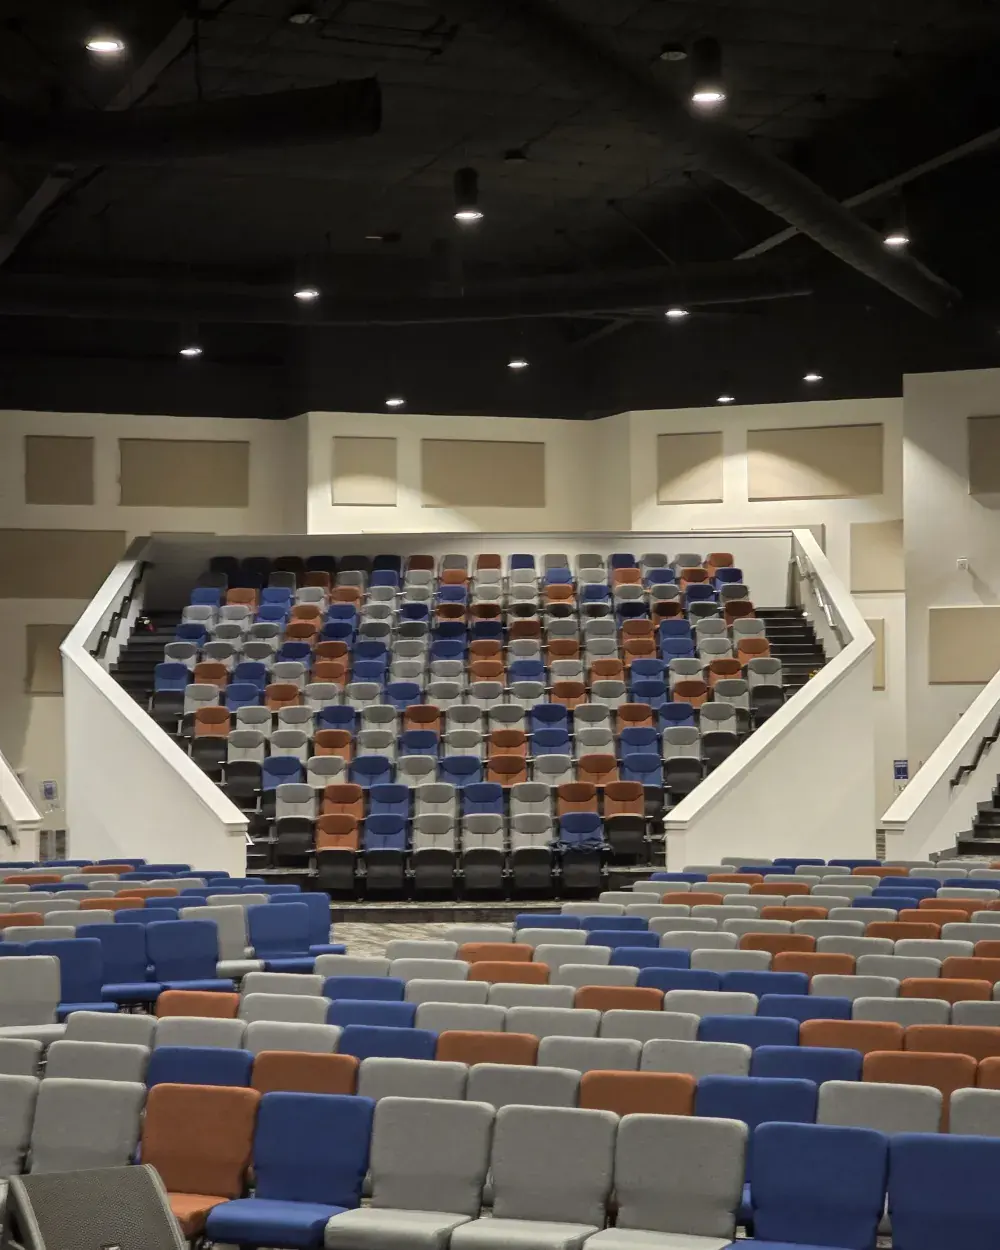
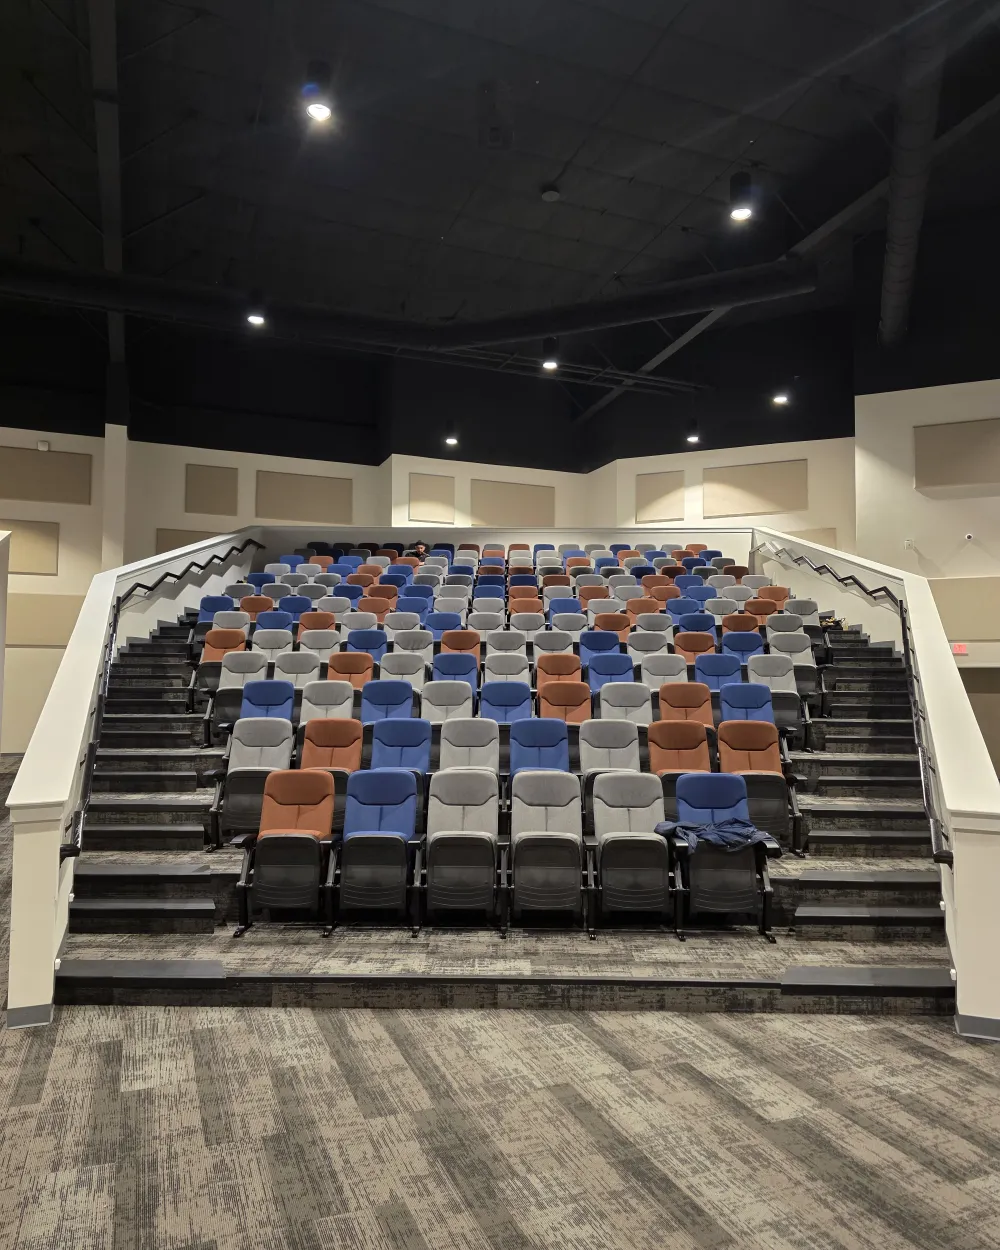
Church seating pair matched to one camera position
Mirrors mix4services@f7256ea.

diff --git a/index.html b/index.html
@@ -1876,9 +1876,10 @@ dialog.a11y::backdrop{background:rgba(8,16,24,.5)}
       ab:'Builder fitting hanging in a two-story stairwell rotunda.',
       aa:'Crystal cascade chandelier hung in the same rotunda.',
       cap:'Stairwell chandelier &middot; builder fitting, then the crystal cascade' },
-    { a:'img/com-1-after.webp?v=b403d4a4',
-      aa:'Tiered auditorium filled with several hundred fixed seats.',
-      cap:'Auditorium seating &middot; several hundred seats set and bolted down' },
+    { b:'img/com-1-before.webp?v=0ab5b365', a:'img/com-1-after.webp?v=629c3123',
+      ab:'Empty tiered floor of a church sanctuary before the seating went in.',
+      aa:'The same tiers filled with several hundred fixed seats.',
+      cap:'Church sanctuary &middot; empty tiers, then several hundred seats' },
     { b:'img/gym-2-before.webp?v=ffdc0ebe', a:'img/gym-2-after.webp?v=1e349583',
       ab:'Bare rubber mat laid on a garage floor.',
       aa:'Smith machine and rack assembled on the same mat.',
@@ -2169,11 +2170,11 @@ dialog.a11y::backdrop{background:rgba(8,16,24,.5)}
       altBefore:'Workshop packed with crates and flat-packed equipment.',
       altAfter:'The assembled power rack standing loaded with plates under the roof trusses.',
       note:'Built where it stands - a rack this size does not go through a doorway assembled. Uprights plumbed before anything was loaded onto it.' },
-    { id:'com-1', cat:'seating', title:'Auditorium seating, several hundred', meta:'Seating assembly',
-      before:'img/com-1-before.webp?v=1ac7354c', after:'img/com-1-after.webp?v=b403d4a4',
-      altBefore:'Empty tiered auditorium floor before any seating went in.',
-      altAfter:'Tiered auditorium filled with several hundred fixed seats.',
-      note:'Several hundred fixed seats set out and bolted down across a tiered floor.' },
+    { id:'com-1', cat:'seating', title:'Church sanctuary, several hundred seats', meta:'Seating assembly',
+      before:'img/com-1-before.webp?v=0ab5b365', after:'img/com-1-after.webp?v=629c3123',
+      altBefore:'Empty tiered floor of a church sanctuary before any seating went in.',
+      altAfter:'The same tiers filled with several hundred fixed seats.',
+      note:'Several hundred fixed seats across the tiers of a church sanctuary, set out and bolted down. Rows lined to the stair run so every seat faces the platform square.' },
   ];
 
   const CAT_LABEL = {

diff --git a/v2.html b/v2.html
@@ -1932,9 +1932,10 @@ dialog.a11y::backdrop{background:rgba(8,16,24,.5)}
       ab:'Builder fitting hanging in a two-story stairwell rotunda.',
       aa:'Crystal cascade chandelier hung in the same rotunda.',
       cap:'Stairwell chandelier &middot; builder fitting, then the crystal cascade' },
-    { a:'img/com-1-after.webp?v=b403d4a4',
-      aa:'Tiered auditorium filled with several hundred fixed seats.',
-      cap:'Auditorium seating &middot; several hundred seats set and bolted down' },
+    { b:'img/com-1-before.webp?v=0ab5b365', a:'img/com-1-after.webp?v=629c3123',
+      ab:'Empty tiered floor of a church sanctuary before the seating went in.',
+      aa:'The same tiers filled with several hundred fixed seats.',
+      cap:'Church sanctuary &middot; empty tiers, then several hundred seats' },
     { b:'img/gym-2-before.webp?v=ffdc0ebe', a:'img/gym-2-after.webp?v=1e349583',
       ab:'Bare rubber mat laid on a garage floor.',
       aa:'Smith machine and rack assembled on the same mat.',
@@ -2225,11 +2226,11 @@ dialog.a11y::backdrop{background:rgba(8,16,24,.5)}
       altBefore:'Workshop packed with crates and flat-packed equipment.',
       altAfter:'The assembled power rack standing loaded with plates under the roof trusses.',
       note:'Built where it stands - a rack this size does not go through a doorway assembled. Uprights plumbed before anything was loaded onto it.' },
-    { id:'com-1', cat:'seating', title:'Auditorium seating, several hundred', meta:'Seating assembly',
-      before:'img/com-1-before.webp?v=1ac7354c', after:'img/com-1-after.webp?v=b403d4a4',
-      altBefore:'Empty tiered auditorium floor before any seating went in.',
-      altAfter:'Tiered auditorium filled with several hundred fixed seats.',
-      note:'Several hundred fixed seats set out and bolted down across a tiered floor.' },
+    { id:'com-1', cat:'seating', title:'Church sanctuary, several hundred seats', meta:'Seating assembly',
+      before:'img/com-1-before.webp?v=0ab5b365', after:'img/com-1-after.webp?v=629c3123',
+      altBefore:'Empty tiered floor of a church sanctuary before any seating went in.',
+      altAfter:'The same tiers filled with several hundred fixed seats.',
+      note:'Several hundred fixed seats across the tiers of a church sanctuary, set out and bolted down. Rows lined to the stair run so every seat faces the platform square.' },
   ];
 
   const CAT_LABEL = {
